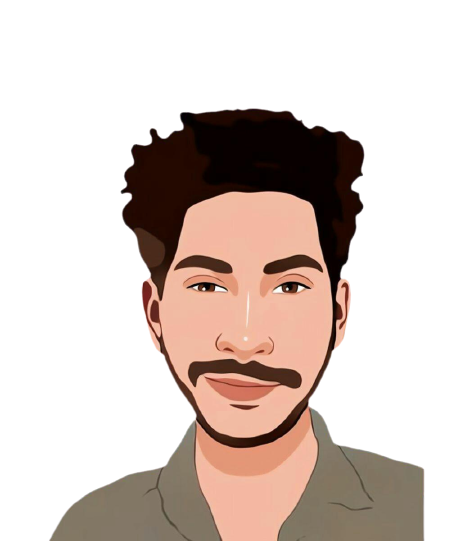
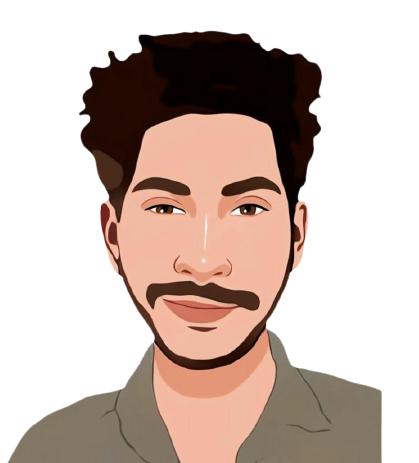
edited a bit

diff --git a/profile-card-component-main/style.css b/profile-card-component-main/style.css
@@ -28,6 +28,7 @@ body {
 
 .bg-img {
     background-image: url(images/bg-pattern-card.svg);
+    height: 130px;
 
 }
 
@@ -35,19 +36,20 @@ body {
     display: flex;
     justify-content: center;
     align-items: center;
+    margin: auto 49%;
+    position: absolute;
 }
 
 .user-img {
     display: flex;
     justify-content: center;
     align-items: center;
-    overflow: hidden;
-    background-size: fill;
-    position: fixed;
+    position: absolute;
+    margin: auto;
     border-radius: 50%;
     border: 8px solid rgb(255, 246, 246);
-    width: 120px;
-    height: fit-content;
+    width: 110px;
+    height: 120px;
     background-image: url(images/bg-pattern-card.svg);
 
 }
@@ -59,10 +61,11 @@ body {
 
 a {
     color: black;
+    text-decoration: none;
 }
 
 .info {
-    padding-top: 75px;
+    padding-top: 70px;
     text-align: center;
 }
 
@@ -82,7 +85,7 @@ span {
     width: 100%;
     height: 0.1px;
     background-color: #9d9d9d;
-    margin: 19px 0px;
+    margin: 10px 0px;
 }
 
 
@@ -90,5 +93,5 @@ span {
     display: flex;
     align-items: center;
     justify-content: space-around;
-    margin: 17px;
+    margin: 19px;
 }
